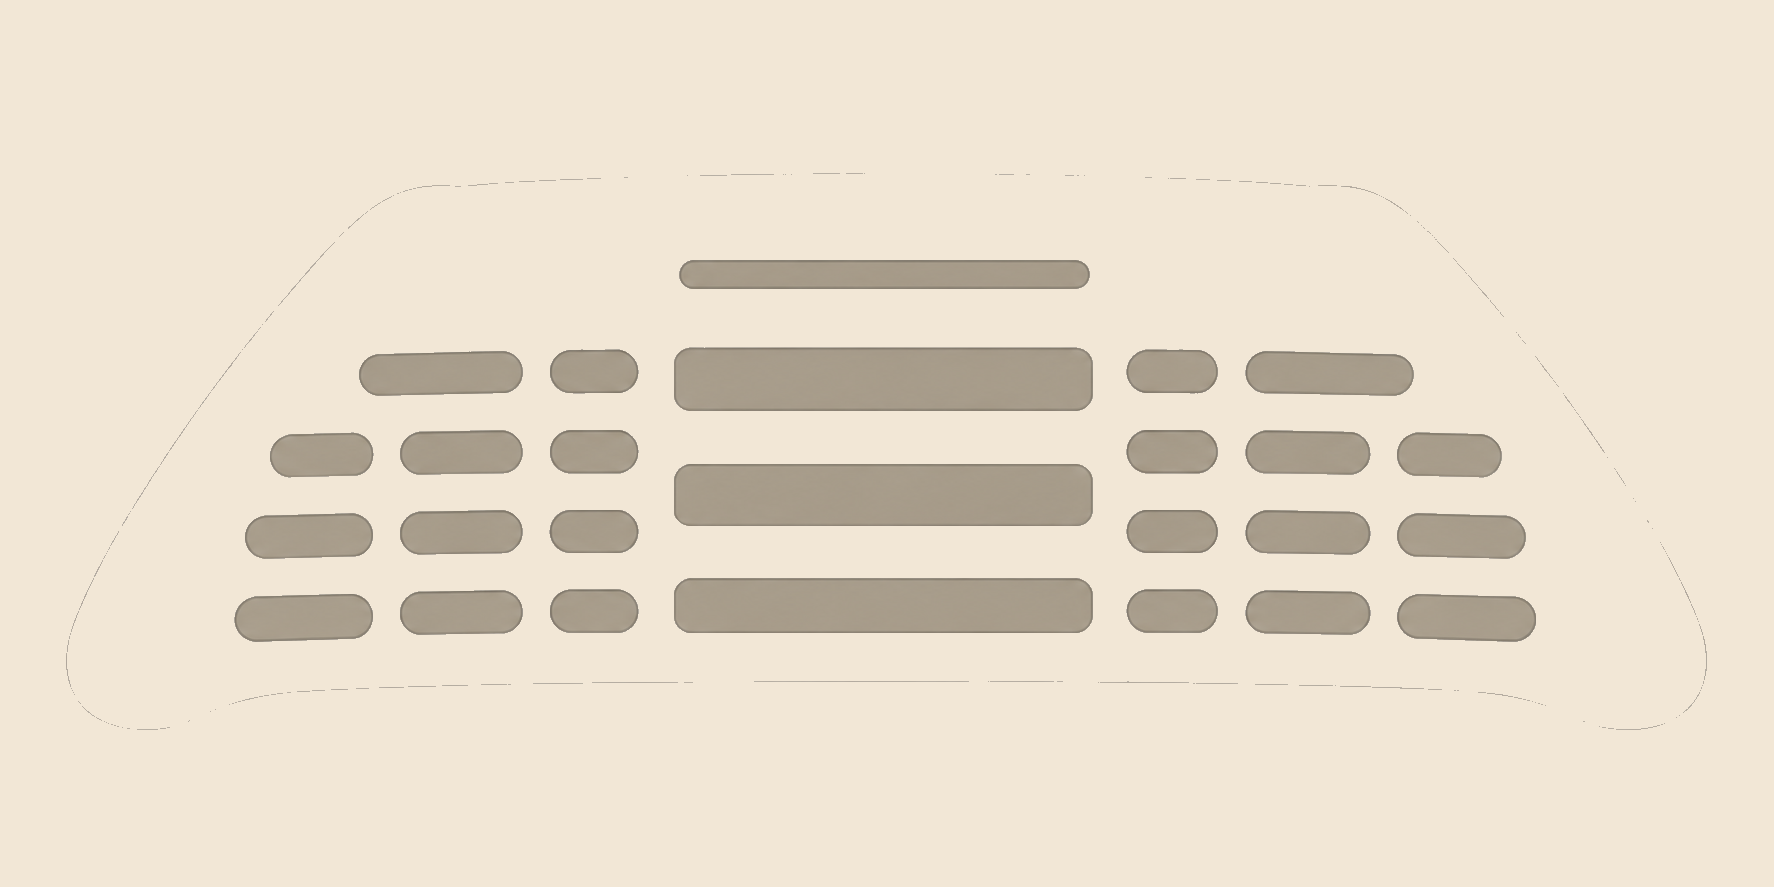
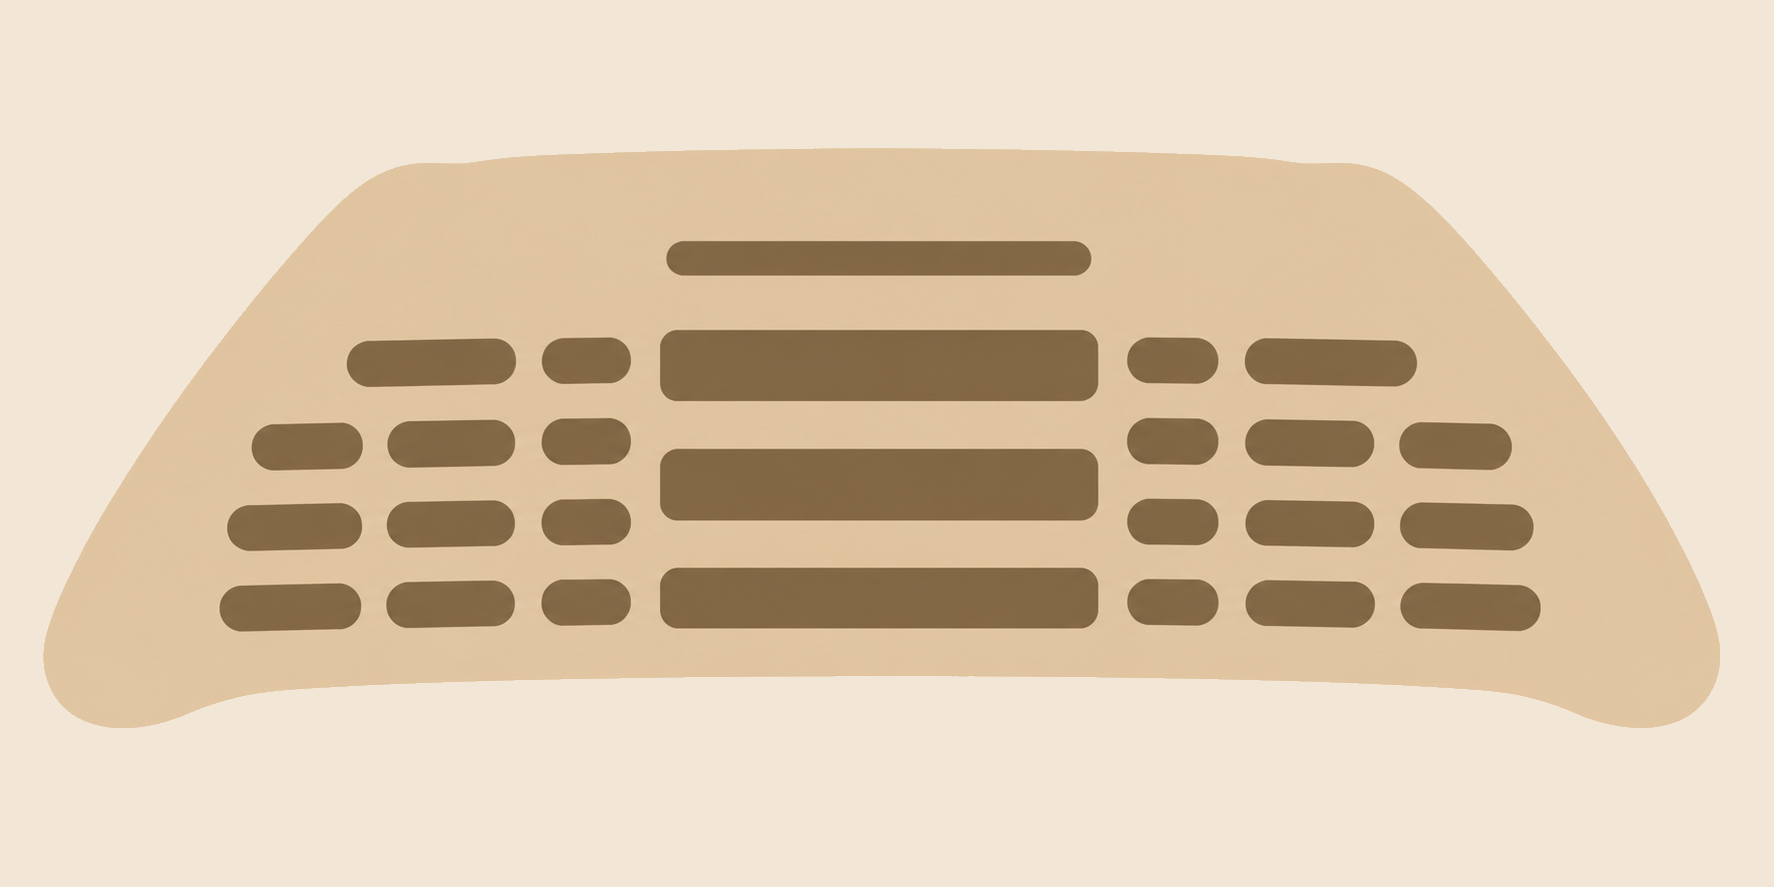
Repair final flat silhouette previews

diff --git a/.context/flat-hangboard-illustrations/batch-review.md b/.context/flat-hangboard-illustrations/batch-review.md
@@ -10,8 +10,8 @@ Inventory
 
 Representative inspection scope
 
-- Contact sheet review: complete 32-tile pass
-- Individual spot checks: `beastmaker-1000-flat.png`, `soill-split-palm-flat.png`, `soill-training-tiles-flat.png`, `soill-iron-palm-2-flat.png`, `trango-rock-prodigy-pivot-flat.png`
+- Contact sheet review: complete 32-tile pass after the six-board repair
+- Individual fix checks: `beastmaker-2000-flat.png`, `tension-grindstone-flat.png`, `trango-rock-prodigy-natural-flat.png`, `yy-verticalboard-one-flat.png`, `metolius-contact-flat.png`, `zlagboard-evo-flat.png`
 
 Checks
 
@@ -23,17 +23,24 @@ Checks
 
 Repair notes
 
-- Regenerated `soill-split-palm-flat.png` with a board-specific prompt to restore the paired palm-board silhouette and visible center gap.
-- Regenerated `soill-training-tiles-flat.png` with a board-specific prompt to restore the paired training-tile cutout geometry and improve traceability.
-- Regenerated `soill-iron-palm-2-flat.png` with a board-specific prompt to restore the two dominant circular palm pods, the central connecting body, and the large lower curved cavity.
-- Regenerated `trango-rock-prodigy-pivot-flat.png` with a board-specific prompt to restore the paired-board layout, crisp silhouettes, and clearly separated internal cavities while removing sketchy remnants.
+- Regenerated `beastmaker-2000-flat.png` with a stronger high-contrast prompt to restore the connected rectangular body, top corner blocks, and readable cavity layout while keeping the board plane darker than the parchment background.
+- Regenerated `tension-grindstone-flat.png` with a stronger high-contrast prompt to restore the connected three-section body and center opening as a crisp flat silhouette.
+- Regenerated `trango-rock-prodigy-natural-flat.png` with a stronger high-contrast prompt to restore both board planes plus the center bridge and opening as a connected silhouette.
+- Regenerated `yy-verticalboard-one-flat.png` with a stronger high-contrast prompt to restore the connected outer body and center opening while preserving the main hold rows.
+- Regenerated `metolius-contact-flat.png` with a stronger high-contrast prompt to restore the continuous outer contour and major cavity structure.
+- Regenerated `zlagboard-evo-flat.png` with a stronger high-contrast prompt to restore the continuous outer contour and preserve the major cavity groupings.
+- Normalized only edge-connected background pixels on the six repaired files to the exact parchment review color so the board plane never disappears into a mottled generated backdrop.
 
 Focused verification for this fix pass
 
-- Re-inspected `soill-iron-palm-2-flat.png` to confirm both circular palm pods, the connecting body, the angled side legs, and the large lower curved cavity remain visible against the parchment background.
-- Re-inspected `trango-rock-prodigy-pivot-flat.png` to confirm the paired-board layout, clean center gap, crisp flat silhouettes, and clearly separated internal cavities.
-- Rebuilt and re-inspected `docs/hangboard-generative-catalog/flat-illustrations-contact-sheet.png` to confirm both repaired boards now read correctly in catalog context.
+- Re-inspected `beastmaker-2000-flat.png` to confirm the rectangular body, top corner blocks, and major cavity pattern remain fully connected and visibly darker than the parchment background.
+- Re-inspected `tension-grindstone-flat.png` to confirm the connected three-section body, center opening, and separated cavity bands remain readable without soft sketch remnants.
+- Re-inspected `trango-rock-prodigy-natural-flat.png` to confirm both board planes, the center bridge, the center opening, and the lower cavity groupings remain connected and traceable.
+- Re-inspected `yy-verticalboard-one-flat.png` to confirm the connected outer body and center opening remain visible with the main cavity rows preserved.
+- Re-inspected `metolius-contact-flat.png` to confirm the continuous outer contour remains visible and the major cavity layout is preserved.
+- Re-inspected `zlagboard-evo-flat.png` to confirm the continuous outer contour remains visible and the cavity groupings remain traceable.
+- Rebuilt and re-inspected `docs/hangboard-generative-catalog/flat-illustrations-contact-sheet.png` to confirm all six repaired boards now read correctly in their labeled catalog positions.
 
 Batch conclusion
 
-The batch now satisfies the preview/reference requirements across the reviewed set, including the previously flagged `soill-iron-palm-2-flat.png` and `trango-rock-prodigy-pivot-flat.png` repairs.
+The batch now satisfies the preview/reference requirements across the reviewed set, including the six silhouette repairs requested in final review.

diff --git a/.superpowers/sdd/2026-08-09-flat-hangboard-illustrations/task-2-report.md b/.superpowers/sdd/2026-08-09-flat-hangboard-illustrations/task-2-report.md
@@ -91,3 +91,51 @@ Changed files for fix pass
 Updated assessment
 
 - Batch QA verdict: PASS
+
+Final silhouette repair pass — August 9, 2026
+
+Summary
+
+Applied the requested final review fixes to exactly six outputs:
+
+- `docs/hangboard-generative-catalog/flat-illustrations/beastmaker-2000-flat.png`
+- `docs/hangboard-generative-catalog/flat-illustrations/tension-grindstone-flat.png`
+- `docs/hangboard-generative-catalog/flat-illustrations/trango-rock-prodigy-natural-flat.png`
+- `docs/hangboard-generative-catalog/flat-illustrations/yy-verticalboard-one-flat.png`
+- `docs/hangboard-generative-catalog/flat-illustrations/metolius-contact-flat.png`
+- `docs/hangboard-generative-catalog/flat-illustrations/zlagboard-evo-flat.png`
+
+Implementation notes
+
+- Regenerated each repaired file from its original source PNG using a stronger high-contrast flat prompt that explicitly preserved the full connected board body as a solid warm board plane on a parchment background, with cavities rendered as darker flat cut-ins.
+- Replaced the six prior repaired outputs only; no other flat preview PNGs were regenerated in this pass.
+- Normalized edge-connected background pixels on the six repaired files to the exact parchment review color so the boards remain clearly separated from the background and the rebuilt contact sheet stays visually uniform.
+- Rebuilt `docs/hangboard-generative-catalog/flat-illustrations-contact-sheet.png` after all six replacements.
+- Removed the hidden temp file `.metolius-project-flat.png-G2cB` after confirming it was a zero-byte workspace-local temp artifact, and kept it out of the staged set.
+
+Focused verification
+
+- Visually rechecked `beastmaker-2000-flat.png` and confirmed the connected rectangular body, top blocks, and major cavity pattern remain visible and traceable.
+- Visually rechecked `tension-grindstone-flat.png` and confirmed the connected three-section body, center opening, and separated cavity bands remain crisp and legible.
+- Visually rechecked `trango-rock-prodigy-natural-flat.png` and confirmed both board planes, the center bridge/opening, and the lower cavity groups remain connected and readable.
+- Visually rechecked `yy-verticalboard-one-flat.png` and confirmed the connected outer body and center opening remain visible with the major hold rows preserved.
+- Visually rechecked `metolius-contact-flat.png` and confirmed the continuous outer contour remains visible with the major cavity structure preserved.
+- Visually rechecked `zlagboard-evo-flat.png` and confirmed the continuous outer contour remains visible with the major cavity groupings preserved.
+- Visually rechecked the rebuilt contact sheet and confirmed all six repaired boards read correctly in their labeled positions against the uniform parchment review background.
+- Reconfirmed the inventory remains 32 source board PNG stems and 32 `*-flat.png` outputs with no missing or extra files.
+
+Changed files for final silhouette repair pass
+
+- `docs/hangboard-generative-catalog/flat-illustrations/beastmaker-2000-flat.png`
+- `docs/hangboard-generative-catalog/flat-illustrations/tension-grindstone-flat.png`
+- `docs/hangboard-generative-catalog/flat-illustrations/trango-rock-prodigy-natural-flat.png`
+- `docs/hangboard-generative-catalog/flat-illustrations/yy-verticalboard-one-flat.png`
+- `docs/hangboard-generative-catalog/flat-illustrations/metolius-contact-flat.png`
+- `docs/hangboard-generative-catalog/flat-illustrations/zlagboard-evo-flat.png`
+- `docs/hangboard-generative-catalog/flat-illustrations-contact-sheet.png`
+- `.context/flat-hangboard-illustrations/batch-review.md`
+- this report file
+
+Updated assessment
+
+- Batch QA verdict: PASS
